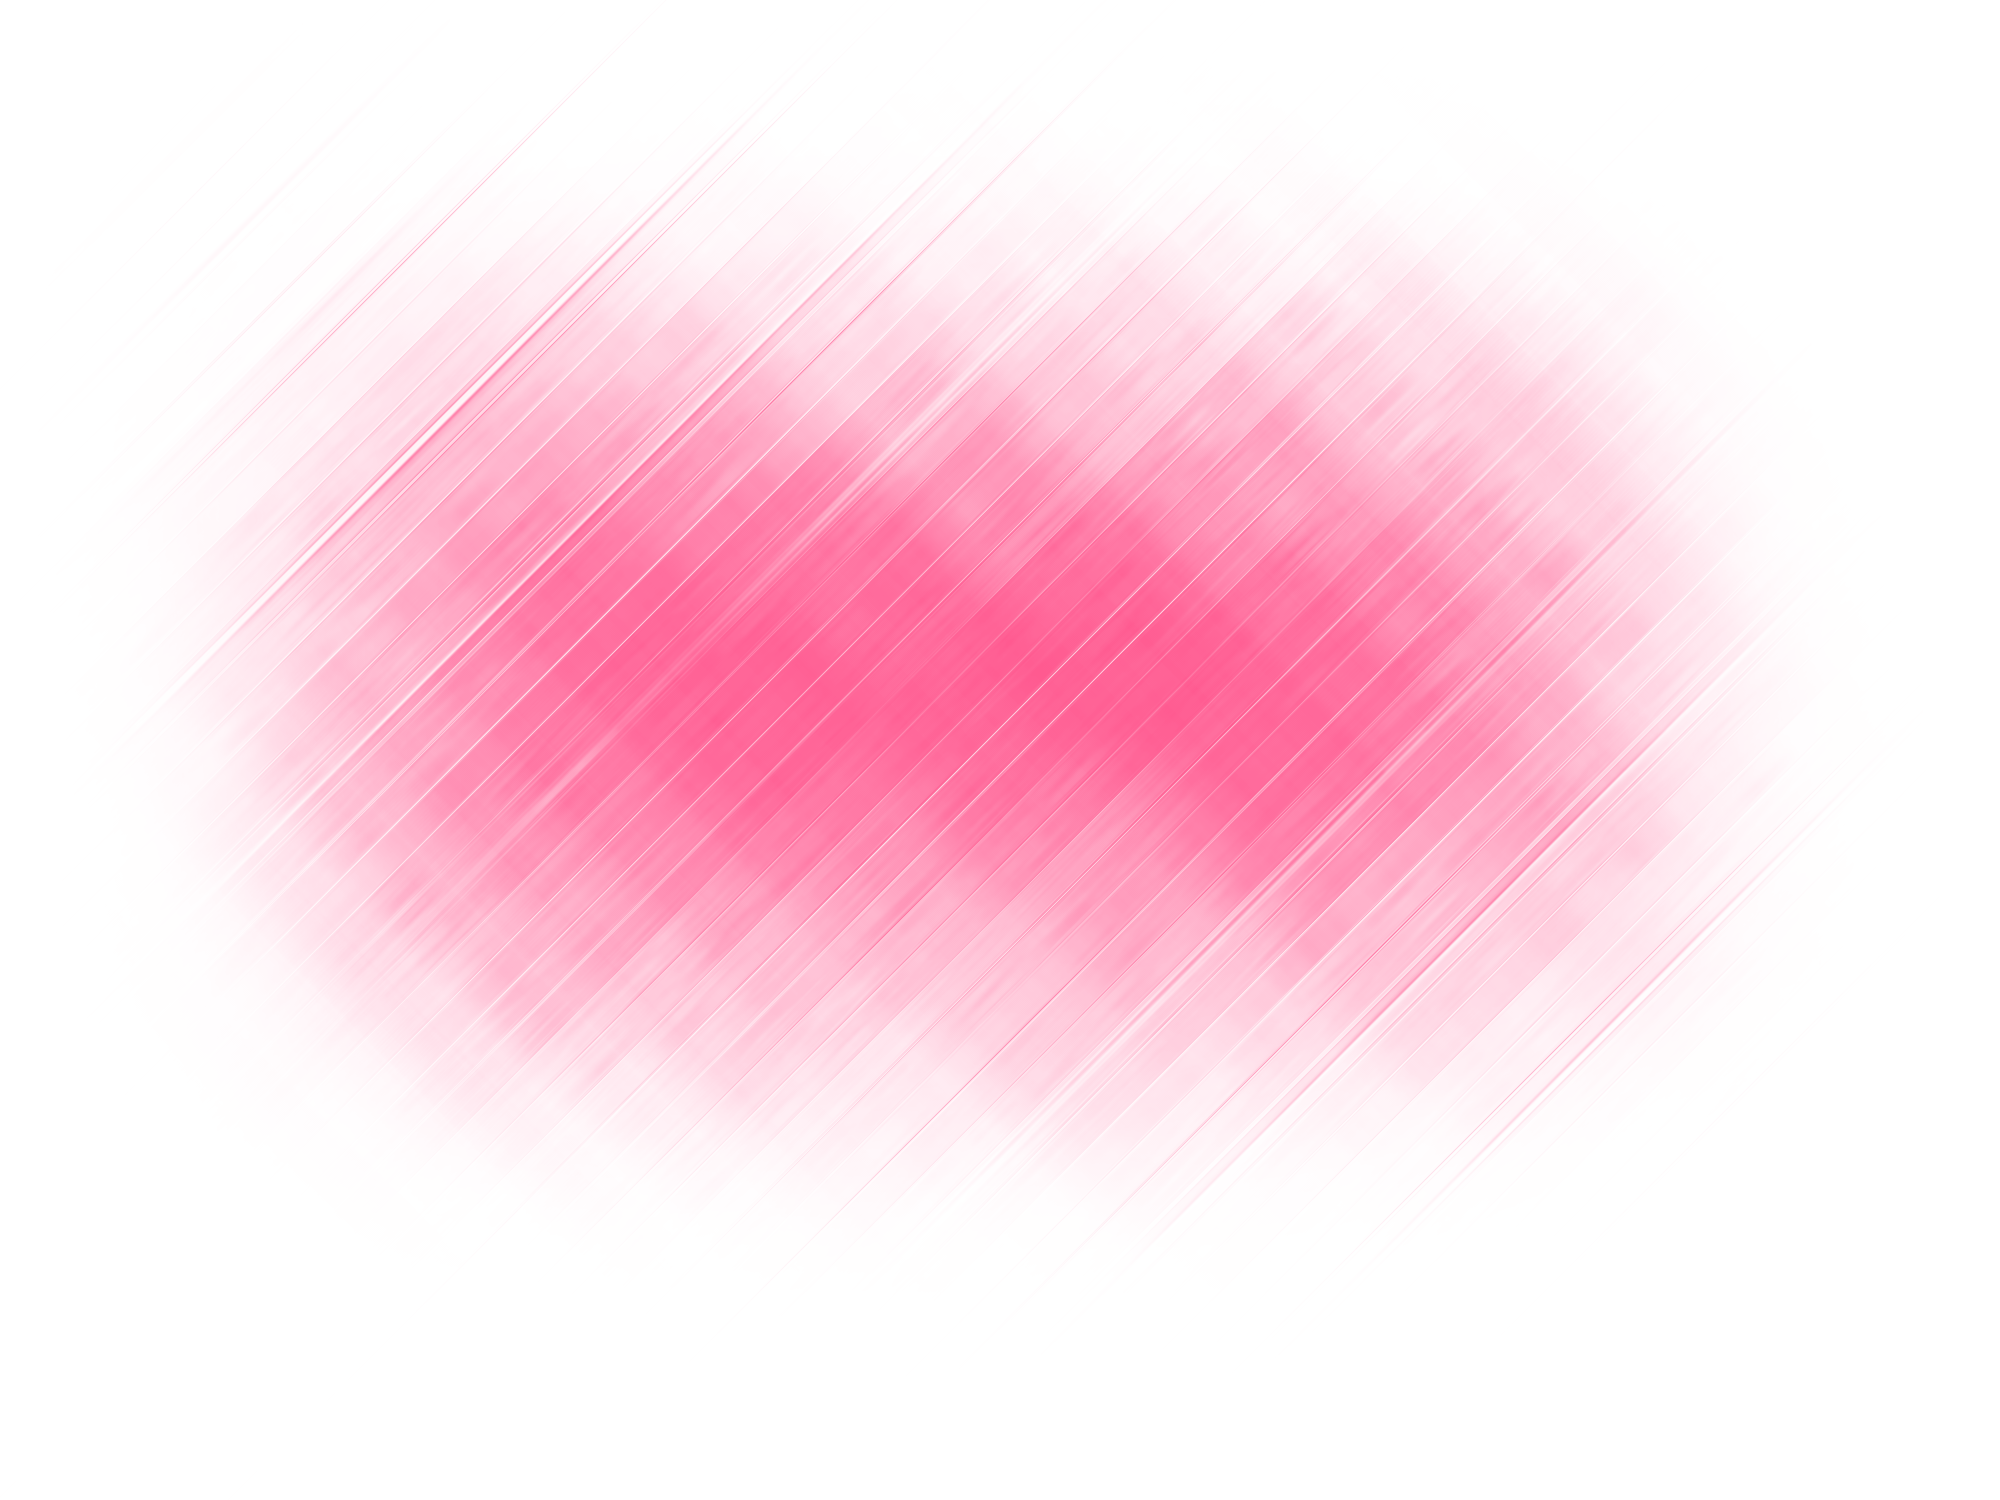
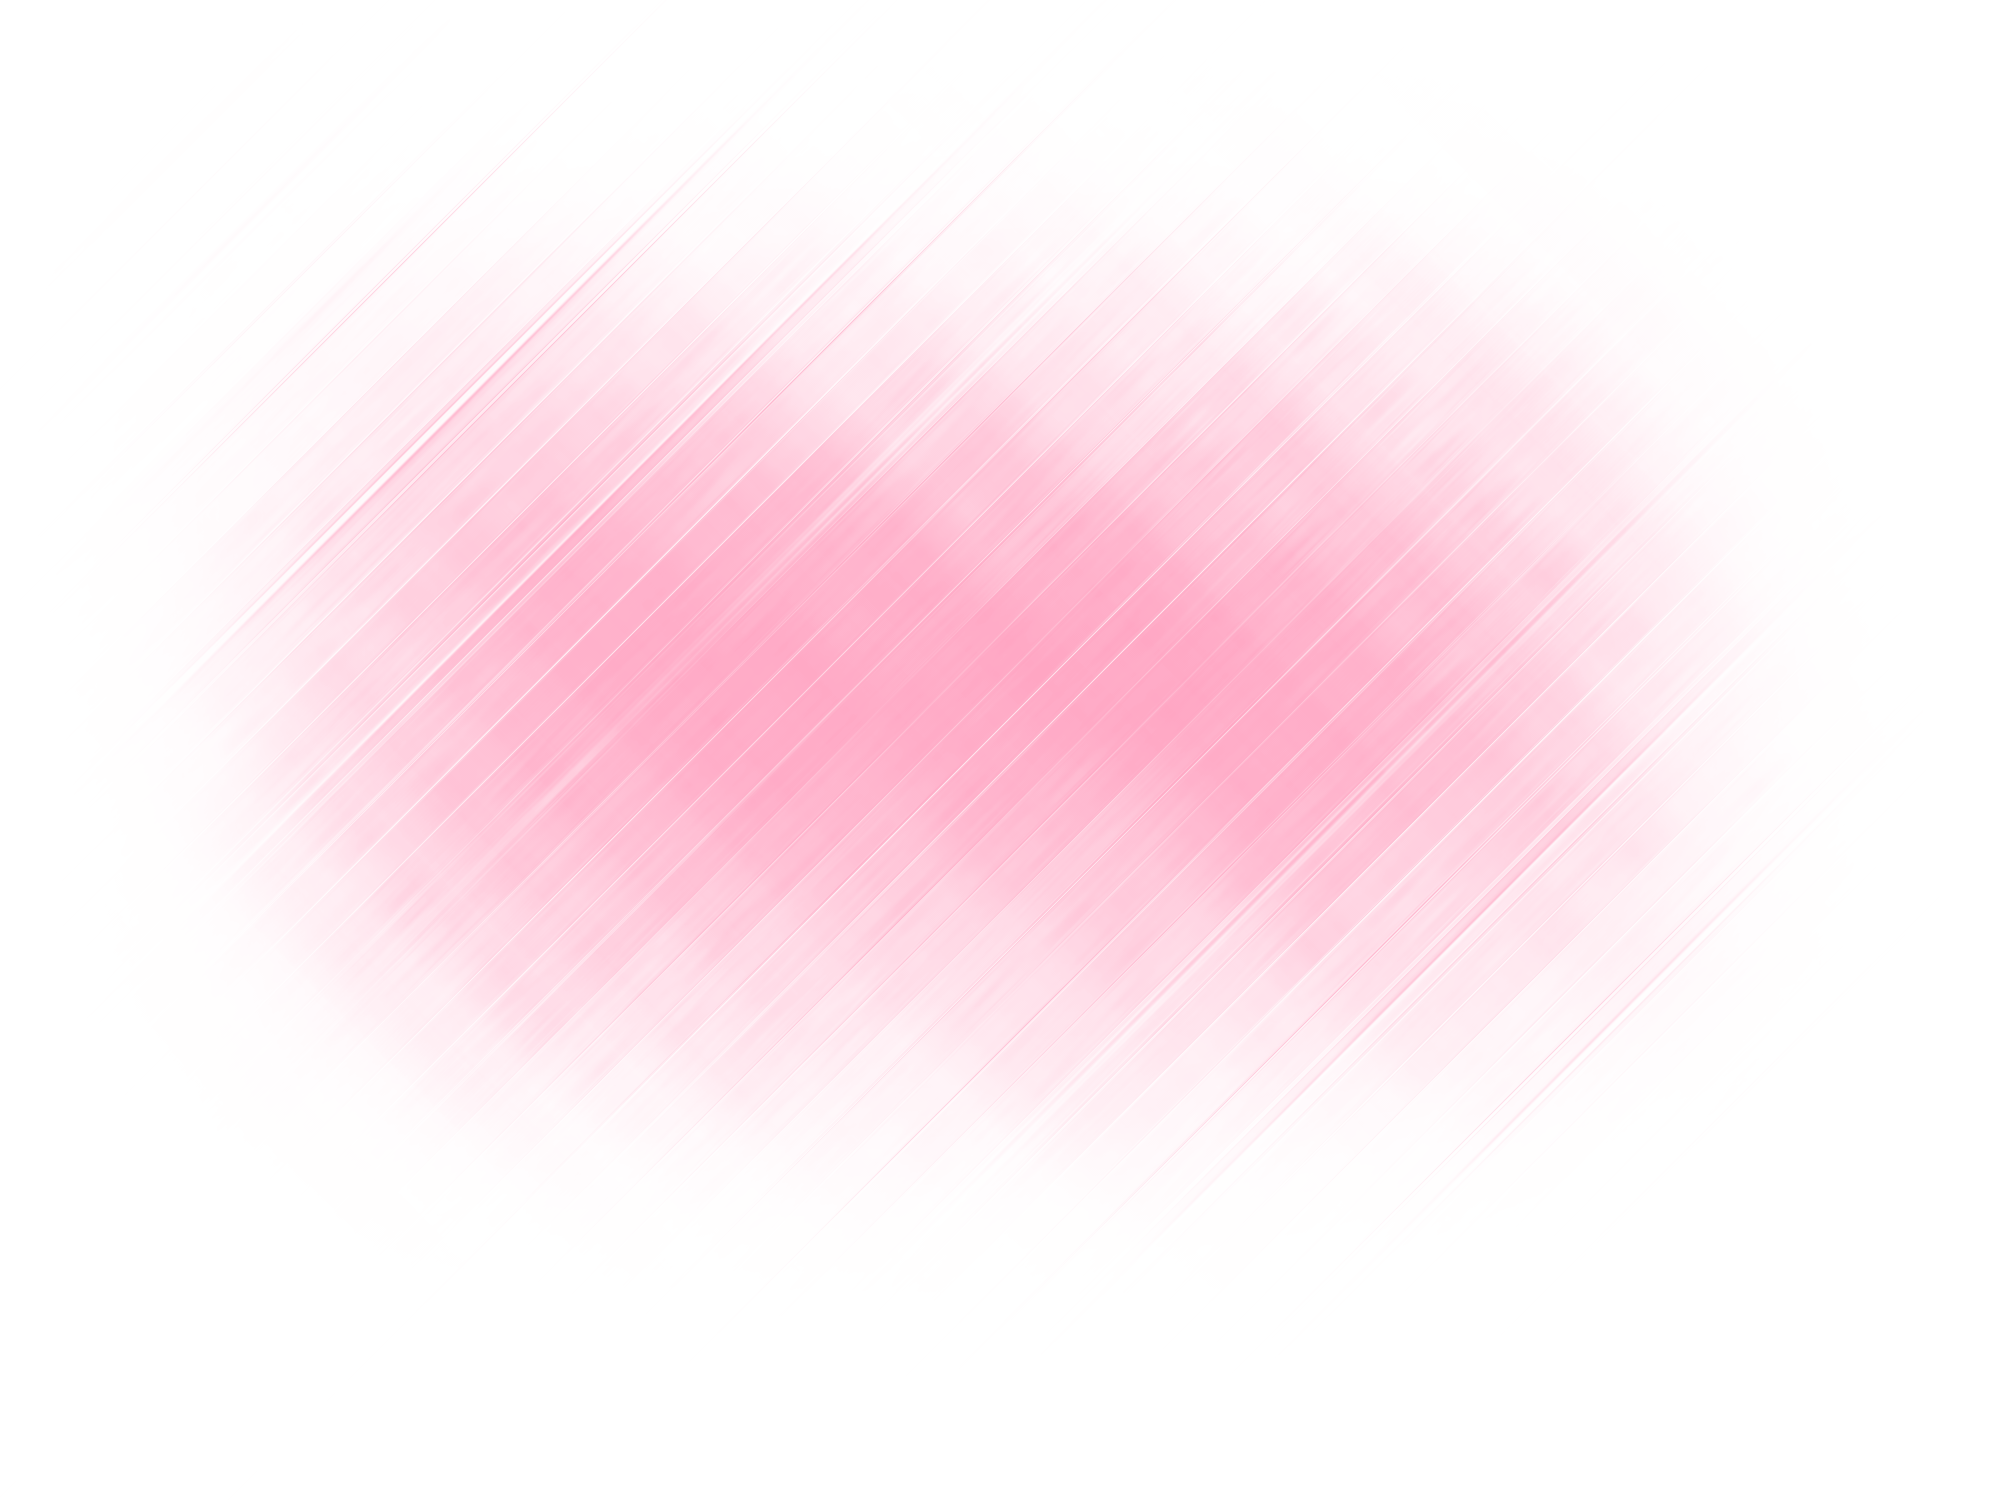
more stuff

Changed region(s): [[0.155, 0.2147, 0.837, 0.7053], [0.279, 0.184, 0.31, 0.2147]]

diff --git a/css/style.css b/css/style.css
@@ -237,13 +237,13 @@ ul { list-style: none; }
   white-space: nowrap;
 }
 .hero-subtitle {
-  font-size: clamp(0.78rem, 1.5vw, 0.95rem);
+  font-size: clamp(0.82rem, 1.6vw, 1rem);
   font-weight: 400;
-  letter-spacing: 0.12em;
-  color: rgba(255,255,255,0.55);
+  letter-spacing: 0.14em;
+  color: rgba(255,255,255,0.60);
 }
 .hero-subtitle strong {
-  color: rgba(255,255,255,0.82);
+  color: rgba(255,255,255,0.88);
   font-weight: 600;
 }
 
@@ -294,11 +294,13 @@ ul { list-style: none; }
   background: var(--bg-card);
   border: 1px solid var(--border);
   aspect-ratio: 1;
-  transition: border-color 0.3s, transform 0.35s var(--ease);
+  box-shadow: 0 6px 24px rgba(0,0,0,0.50);
+  transition: border-color 0.3s, transform 0.35s var(--ease), box-shadow 0.35s var(--ease);
 }
 .project-card:hover {
   border-color: var(--border-hover);
   transform: translateY(-3px);
+  box-shadow: 0 12px 36px rgba(0,0,0,0.65);
 }
 .project-card img {
   position: absolute;
@@ -363,18 +365,21 @@ ul { list-style: none; }
     url(../assets/images/Azimuth_verticalbg_bottom.png) center top / cover no-repeat;
 }
 .commendations-inner {
-  max-width: 720px;
+  max-width: 880px;
   margin: 0 auto;
 }
 .commendation-item {
   display: flex;
-  gap: 1.5rem;
+  gap: 1.75rem;
   align-items: flex-start;
-  background: rgba(255,255,255,0.05);
-  border: 1px solid rgba(255,255,255,0.10);
-  border-radius: 12px;
-  padding: 1.5rem;
+  background: rgba(255,255,255,0.09);
+  border: 1px solid rgba(255,255,255,0.18);
+  border-radius: 14px;
+  padding: 1.75rem;
   margin-bottom: 1.25rem;
+  backdrop-filter: blur(8px);
+  -webkit-backdrop-filter: blur(8px);
+  box-shadow: 0 4px 28px rgba(0,0,0,0.35);
 }
 .commendation-item:last-child { margin-bottom: 0; }
 .commendation-aside {
@@ -383,15 +388,15 @@ ul { list-style: none; }
   flex-direction: column;
   align-items: center;
   text-align: center;
-  width: 88px;
-  gap: 0.4rem;
+  width: 92px;
+  gap: 0.45rem;
 }
 .commendation-avatar {
-  width: 62px;
-  height: 62px;
+  width: 66px;
+  height: 66px;
   border-radius: 50%;
   overflow: hidden;
-  border: 2px solid rgba(255,255,255,0.18);
+  border: 2px solid rgba(255,255,255,0.25);
 }
 .commendation-avatar img {
   width: 100%;
@@ -399,19 +404,19 @@ ul { list-style: none; }
   object-fit: cover;
 }
 .commendation-quote {
-  font-size: 0.88rem;
+  font-size: 0.93rem;
   line-height: 1.85;
-  color: rgba(255,255,255,0.72);
+  color: rgba(255,255,255,0.82);
   text-align: left;
 }
 .commendation-name {
   font-weight: 700;
-  font-size: 0.78rem;
+  font-size: 0.82rem;
   color: var(--text);
 }
 .commendation-role {
   font-style: italic;
-  font-size: 0.7rem;
+  font-size: 0.72rem;
   color: var(--text-dim);
   line-height: 1.4;
 }
@@ -456,7 +461,7 @@ ul { list-style: none; }
   max-width: 1200px;
   margin: 0 auto;
   font-size: 0.78rem;
-  color: rgba(255,255,255,0.25);
+  color: rgba(255,255,255,0.55);
 }
 .footer-name {
   font-family: var(--font-d);
@@ -469,7 +474,7 @@ ul { list-style: none; }
   gap: 1.5rem;
   flex-wrap: wrap;
 }
-.footer-info a:hover { color: rgba(255,255,255,0.6); }
+.footer-info a:hover { color: rgba(255,255,255,0.9); }
 
 /* ═══════════════════════════════════════════════════════════════
    ABOUT PAGE
@@ -513,10 +518,10 @@ ul { list-style: none; }
 }
 
 .about-body p {
-  font-size: 0.9rem;
-  line-height: 1.85;
-  color: rgba(255,255,255,0.65);
-  margin-bottom: 1rem;
+  font-size: 0.97rem;
+  line-height: 1.9;
+  color: rgba(255,255,255,0.75);
+  margin-bottom: 1.1rem;
 }
 .about-body p:last-child { margin-bottom: 0; }
 
@@ -525,7 +530,7 @@ ul { list-style: none; }
   display: flex;
   gap: 1.5rem;
   font-size: 0.85rem;
-  color: rgba(255,255,255,0.5);
+  color: rgba(255,255,255,0.65);
 }
 .about-contact-info a:hover { color: var(--text); }
 
